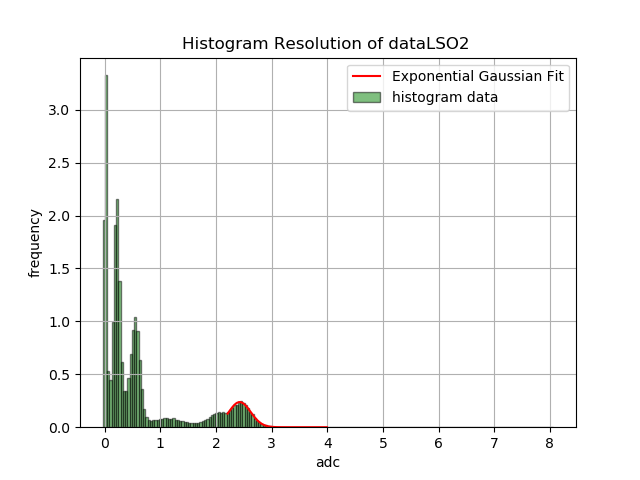
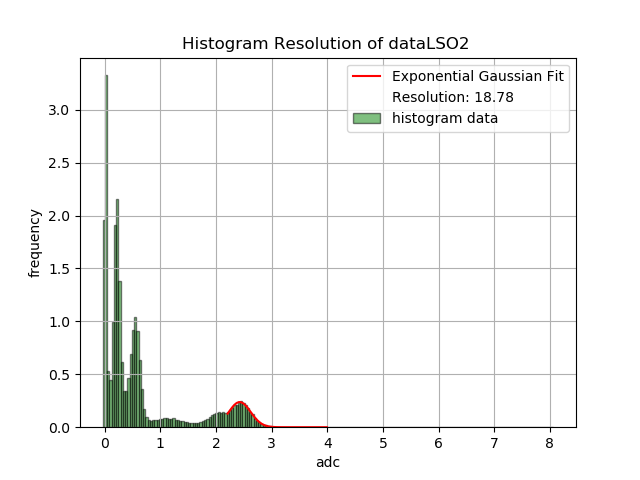
finished Resolution

Changed region(s): [[0.5312, 0.1875, 0.8125, 0.2812], [0.8438, 0.25, 0.875, 0.2812]]

diff --git a/BGORESOLUTION/resolutionmethod2.py b/BGORESOLUTION/resolutionmethod2.py
@@ -6,13 +6,14 @@ import matplotlib.pyplot as plt
 
 import glob
 bins=200
-
+#cancelliamo file vecchi
 crap1=glob.glob('hist*.png')
 for craps in crap1:
     try:
         remove(craps)
     except:
         pass
+#iniziamo il tutto caricando i dati
 filenames=glob.glob('data*.txt')
 
 
@@ -23,6 +24,7 @@ for i in range(len(filenames)):
     print(f)
 
     data=np.loadtxt(f,unpack=True)
+#qui definisco gli estremi dei fotopicchi
     if i==0:
         a=2.3
         b=10
@@ -54,11 +56,11 @@ for i in range(len(filenames)):
         pass
 
 
-
+#cominciamo la figura
     plt.figure('%s'%f.replace('.txt',''))
     bin_heights, bin_borders, _=plt.hist(data,bins,facecolor='g',ec='black',alpha=0.5,label='histogram data',density=True)
     bin_centers = bin_borders[:-1] + np.diff(bin_borders) / 2
-
+#qui creo il vettore per il fit sul fotopicco eliminando la parte che non interessa
     newcenters=[]
     newheights=[]
     for j in range(len(bin_heights)):
@@ -69,6 +71,7 @@ for i in range(len(filenames)):
             pass
     y=np.array(newheights)
     x=np.array(newcenters)
+#in base allo spettro fitto una gaussiana esponenzialmente corretta o una skewed
     if i<6 and i!=1:
         mod=ExponentialGaussianModel()
         text='Exponential Gaussian Fit'
@@ -77,14 +80,23 @@ for i in range(len(filenames)):
         text='Skewed Gaussian Fit'
     else:
         print('ERROR')
+#indovina i parametri iniziali
     pars=mod.guess(y,x=x)
-
+#fit
     out = mod.fit(y, pars, x=x)
+#ora calcoliamo le risoluzioni
 
-
+    fwhm=out.params['fwhm'].value
+    center=out.params['center'].value
+    resolution=100*fwhm/center
+# salviamo i risultati del fit su un txt
+    with open('fit_result%s.txt'%f.replace('.txt',''), 'w') as fh:
+        fh.write(out.fit_report())
+#figura
     plt.title('Histogram Resolution of %s '%f.replace('.txt',''))
     plt.xlabel('adc')
     plt.plot(x, out.best_fit, 'r-', label=text)
+    plt.plot([], [], ' ', label='Resolution: %.2f'%resolution)
     plt.grid()
     plt.legend()
     plt.ylabel('frequency')
